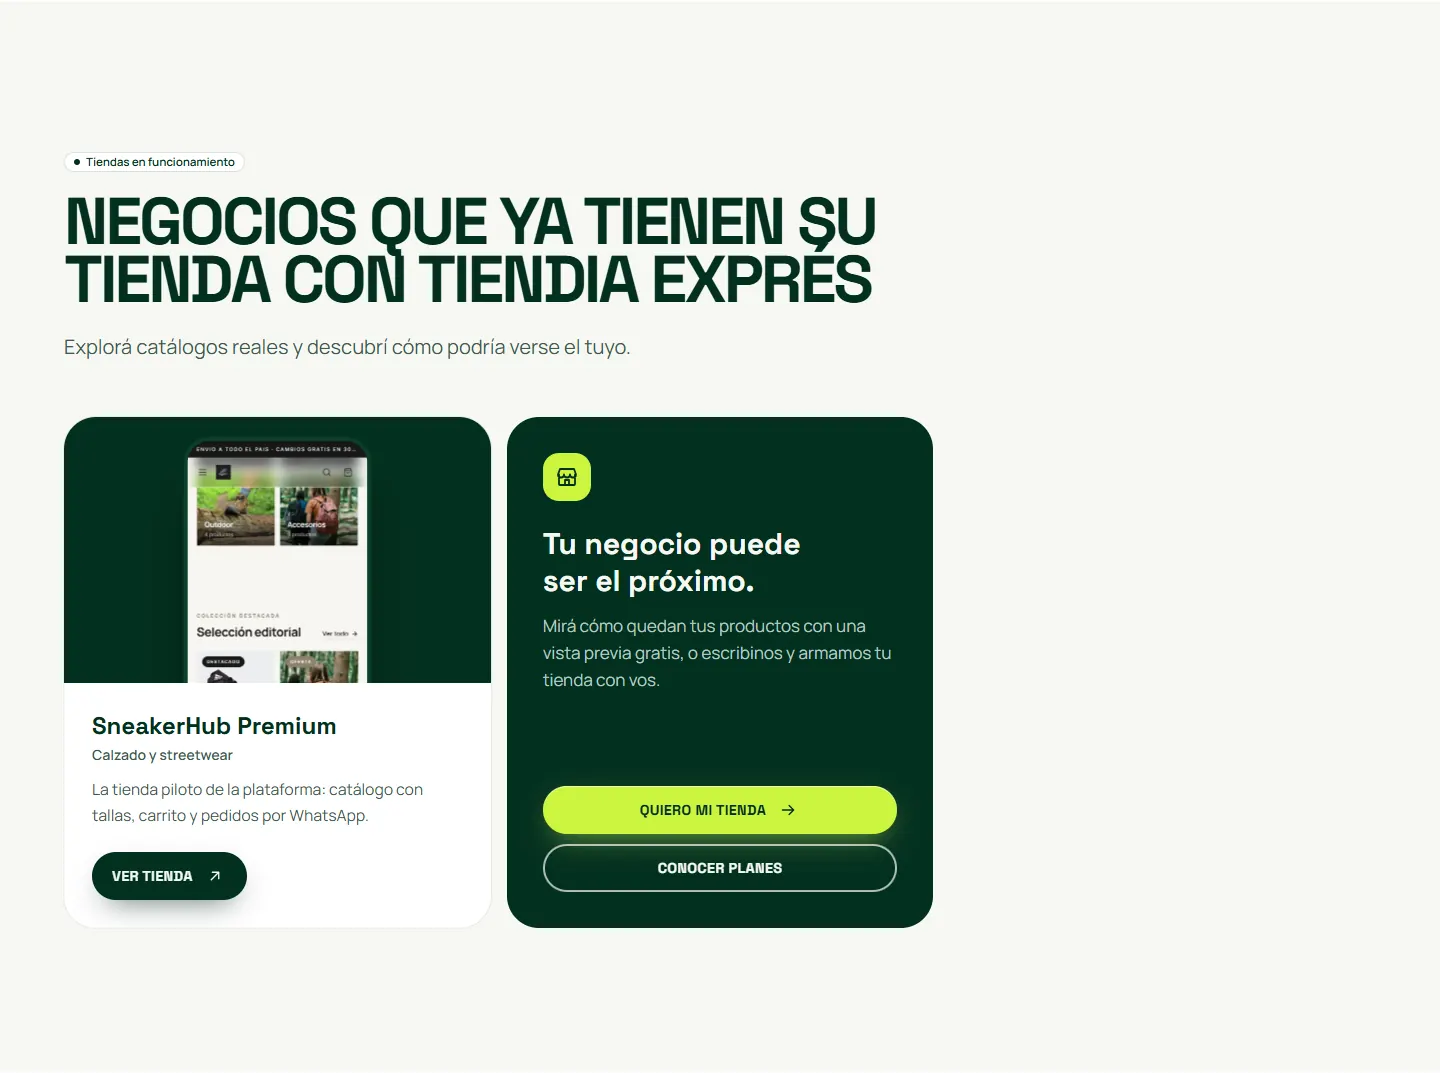
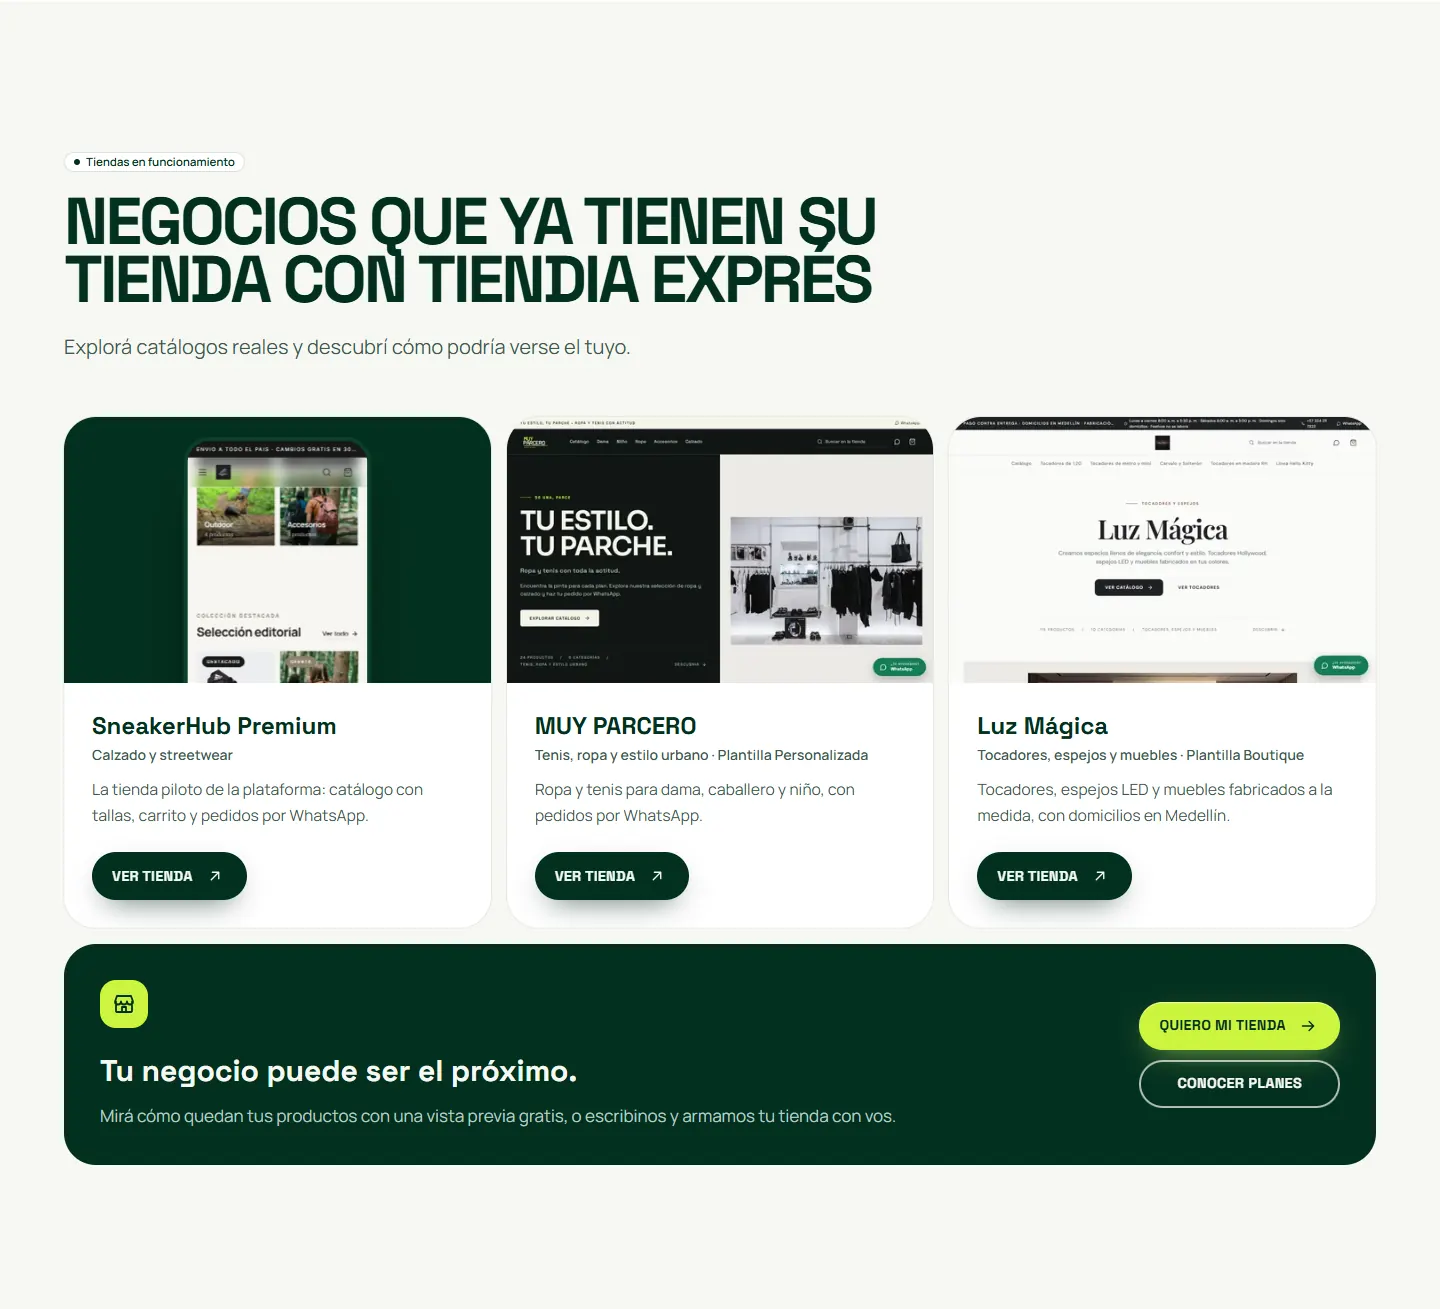
feat(landing): mostrar MUY PARCERO y Luz Mágica como tiendas de ejemplo autorizadas

diff --git a/apps/tiendaiaexpress-landing/src/sections/Stores.tsx b/apps/tiendaiaexpress-landing/src/sections/Stores.tsx
@@ -40,14 +40,15 @@ export function Stores() {
               </article>
             </li>
           ))}
-          <li className="flex">
-            <article className="on-dark flex w-full flex-col justify-between gap-8 rounded-[2rem] bg-forest p-7 text-ivory md:p-9">
+          {/* Full-width call to action when the stores fill whole rows; otherwise it takes the free cell. */}
+          <li className={`flex ${showcaseStores.length % 3 === 0 ? 'lg:col-span-3' : ''} ${showcaseStores.length % 2 === 0 ? 'sm:col-span-2 lg:col-span-1' : ''}`}>
+            <article className={`on-dark flex w-full flex-col justify-between gap-8 rounded-[2rem] bg-forest p-7 text-ivory md:p-9 ${showcaseStores.length % 3 === 0 ? 'lg:flex-row lg:items-center' : ''}`}>
               <div>
                 <span className="grid size-12 place-items-center rounded-2xl bg-lime text-forest"><Icon name="store" size={24} /></span>
                 <h3 className="mt-6 font-display text-2xl font-bold leading-tight md:text-3xl">Tu negocio puede ser el próximo.</h3>
                 <p className="mt-3 text-mist">Mirá cómo quedan tus productos con una vista previa gratis, o escribinos y armamos tu tienda con vos.</p>
               </div>
-              <div className="flex flex-col gap-2.5">
+              <div className="flex shrink-0 flex-col gap-2.5">
                 <Button href="#contacto" variant="lime" icon="arrowRight">Quiero mi tienda</Button>
                 <Button href="#planes" variant="outline-light">Conocer planes</Button>
               </div>

diff --git a/apps/tiendaiaexpress-landing/src/content/stores.ts b/apps/tiendaiaexpress-landing/src/content/stores.ts
@@ -55,7 +55,8 @@ const ENTRIES: Entry[] = [
     blurb: 'Ropa y tenis para dama, caballero y niño, con pedidos por WhatsApp.',
     image: { capture: 'muy-parcero' },
     order: 2,
-    authorized: false, // Pendiente: autorización del comercio.
+    authorized: true,
+    authorizedBy: 'Autorización del comercio confirmada por el propietario de la plataforma el 2026-11-11.',
   },
   {
     slug: 'luz-magica',
@@ -65,7 +66,8 @@ const ENTRIES: Entry[] = [
     blurb: 'Tocadores, espejos LED y muebles fabricados a la medida, con domicilios en Medellín.',
     image: { capture: 'luz-magica' },
     order: 3,
-    authorized: false, // Pendiente: autorización del comercio.
+    authorized: true,
+    authorizedBy: 'Autorización del comercio confirmada por el propietario de la plataforma el 2026-11-11.',
   },
 ]
 

diff --git a/docs/LANDING_PLANES_Y_PRECIOS.md b/docs/LANDING_PLANES_Y_PRECIOS.md
@@ -51,20 +51,20 @@ Capturas en `docs/capturas-landing-planes/` (escritorio 1440 px y móvil 390 px)
 
 Observación fuera del alcance (no se tocó la app): `app.tiendiaexpres.com/` y `/t/sneakerhub-premium` muestran la misma tienda y cada una se declara canónica: contenido duplicado. Recomendación para una próxima entrega del panel: canonical de `/` hacia `/t/sneakerhub-premium` (o redirección).
 
-## 5. Tiendas reales (Implementado · Verificado · **Pendiente de aprobación**)
+## 5. Tiendas reales (Implementado · Verificado)
 
 Auditoría de solo lectura en producción (2026-11-11):
 
 | Tienda | Estado | Productos | Plantilla | URL pública | ¿En la landing? |
 |---|---|---|---|---|---|
 | SneakerHub Premium | activa | 21 | personalizada | `/t/sneakerhub-premium` | **Sí** (piloto propia) |
-| MUY PARCERO | activa | 24 | personalizada | `/t/muy-parcero` | Lista; **falta autorización del comercio** |
-| Luz Mágica | activa | 115 | boutique | `/t/luz-magica` | Lista; **falta autorización del comercio** |
+| MUY PARCERO | activa | 24 | personalizada | `/t/muy-parcero` | **Sí** (autorización confirmada el 2026-11-11) |
+| Luz Mágica | activa | 115 | boutique | `/t/luz-magica` | **Sí** (autorización confirmada el 2026-11-11) |
 | Imperio Nova | activa | 6 | premium | `/t/imperio-nova` | No: la portada aún no tiene imagen |
 | DistribuMax | activa | 0 | editorial | — | No: sin productos |
 | Prueba TiendIA Exprés | borrador | 0 | — | — | No: interna |
 
-Gestión editorial (no existía un servicio; se eligió una configuración simple y segura sin tocar la API): `src/content/stores.ts`. Por tienda: autorizada sí/no y quién la autorizó, orden, texto, categoría, plantilla e imagen. Una tienda aparece **solo si está autorizada y su captura está en `src/assets/stores/`**; las capturas de MUY PARCERO y Luz Mágica quedaron fuera de `src/` (en `scripts/.stores/`, ignorado por git), así que ni siquiera se publican como archivos sueltos. Incluir una tienda en la landing **no cambia su estado, plan ni datos** y no muestra ventas, personas ni cifras privadas. Procedimiento en el encabezado de `stores.ts`.
+Gestión editorial (no existía un servicio; se eligió una configuración simple y segura sin tocar la API): `src/content/stores.ts`. Por tienda: autorizada sí/no y quién la autorizó, orden, texto, categoría, plantilla e imagen. Una tienda aparece **solo si está autorizada y su captura está en `src/assets/stores/`**; las capturas de tiendas no autorizadas quedan fuera de `src/` (en `scripts/.stores/`, ignorado por git), así que ni siquiera se publican como archivos sueltos. MUY PARCERO y Luz Mágica se agregaron tras confirmarse su autorización (2026-11-11); con tres tiendas, la invitación «Tu negocio puede ser el próximo» pasa a una franja de ancho completo. Incluir una tienda en la landing **no cambia su estado, plan ni datos** y no muestra ventas, personas ni cifras privadas. Procedimiento en el encabezado de `stores.ts`.
 
 SneakerHub conserva su demostración interactiva; la tarjeta reutiliza su captura de catálogo (la demo usa inicio, producto y carrito), sin capturas nuevas duplicadas.
 
@@ -152,7 +152,7 @@ Publicadas como **resumen** con «los términos completos se entregan por escrit
 - Cambios de plan con valor confirmado antes; cambios de precio con aviso y sin afectar el periodo pagado (definir días de anticipación).
 - Configuración inicial: **cantidad de productos incluida en la carga inicial** por plan (publicado: «se acuerda al contratar»).
 - Alcance de «soporte prioritario».
-- Autorización escrita de MUY PARCERO y Luz Mágica para aparecer como ejemplos.
+- Conservar el respaldo de la autorización de MUY PARCERO y Luz Mágica (confirmada en el chat el 2026-11-11).
 - Páginas legales completas (Términos y Política de privacidad siguen sin URL; el pie enlaza «Condiciones comerciales»).
 
 ## 11. Pruebas ejecutadas
@@ -184,7 +184,7 @@ Modificados: `index.html`, `src/App.tsx`, `src/content/copy.ts`, `src/config/sit
 ## 14. Procedimiento de publicación (solo con autorización)
 
 1. Aprobar §9 y §10 (al menos IVA, cuotas IA y cómo se cargan, condiciones resumidas). Si se crean los planes en la base, hacerlo antes con respaldo, como las migraciones anteriores.
-2. Si MUY PARCERO o Luz Mágica autorizan: `authorized: true` y `authorizedBy` en `src/content/stores.ts`, copiar sus `.webp` de `scripts/.stores/optimized/` a `src/assets/stores/`.
+2. Tiendas de ejemplo: SneakerHub, MUY PARCERO y Luz Mágica ya están incluidas. Para sumar otra: `authorized: true` y `authorizedBy` en `src/content/stores.ts`, y su captura en `src/assets/stores/`.
 3. Verificar:
    ```
    cd apps/tiendaiaexpress-landing
